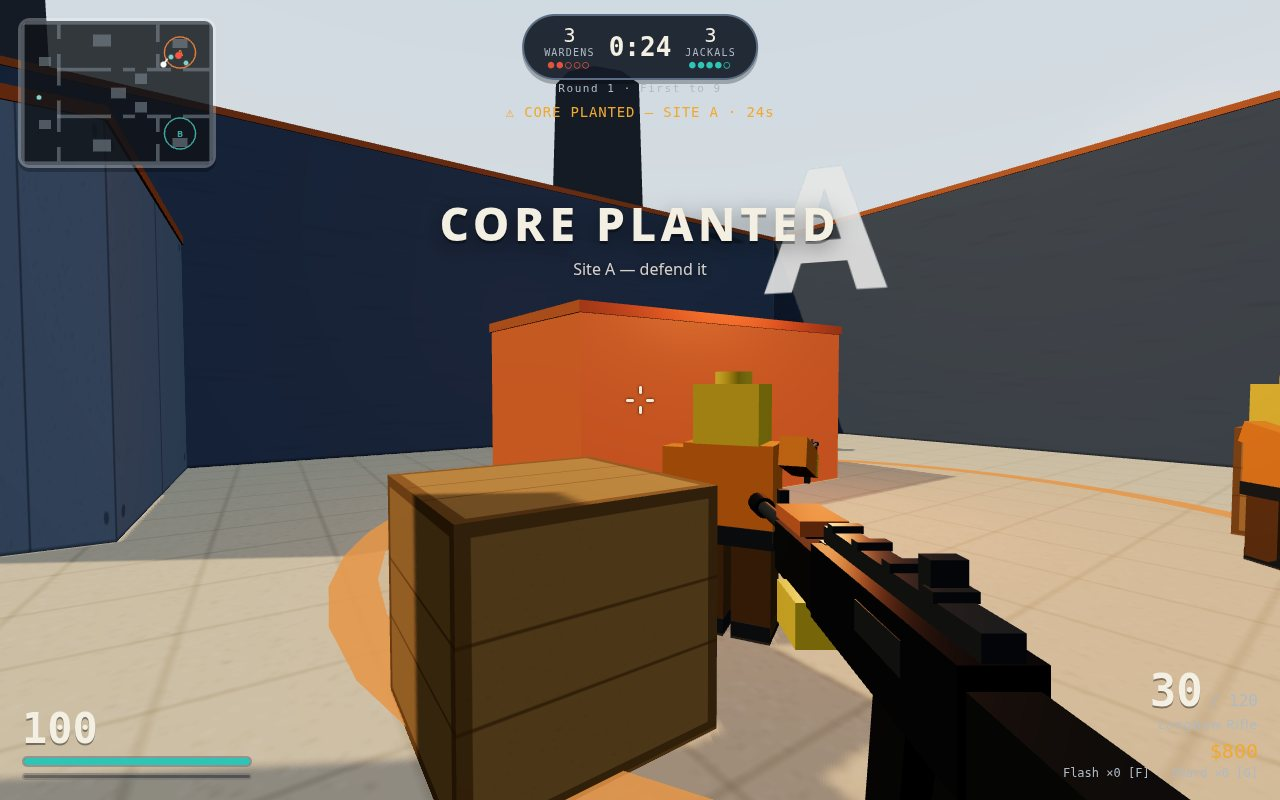
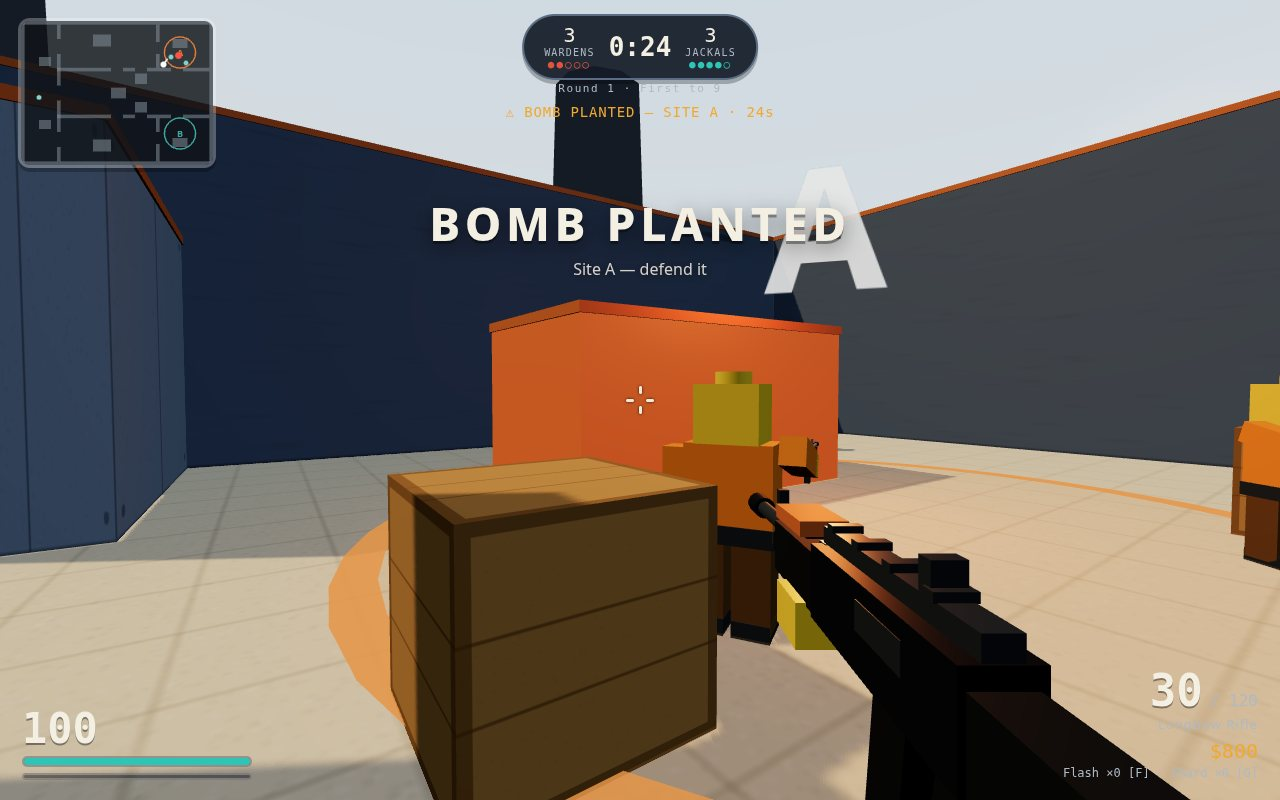
Dedicated PLANT button on touch; the Core is now the Bomb
On a phone the plant action used to hide on the small USE strip button
while the HUD hint still said [hold E] — players could not find it. A
big amber PLANT button now appears only while planting is possible
(player carries the Bomb, standing in a site, live round), pulses to
draw the eye, and its face fills with the plant progress as it is held.
The objective is renamed throughout the visible text: the Bomb is
planted, dropped, defused and detonated; internal identifiers are
unchanged.

Changed region(s): [[0.3125, 0.25, 0.6562, 0.3125], [0.4062, 0.125, 0.4375, 0.1562]]

diff --git a/game/src/main.js b/game/src/main.js
@@ -1,5 +1,5 @@
 // GOBLOK OPENFIRE — a round-based tactical FPS in three.js.
-// Wardens defend two foundry sites; Jackals carry the Core and plant it.
+// Wardens defend two foundry sites; Jackals carry the Bomb and plant it.
 // Money between rounds buys rifles, a sniper, armour and grenades; spread
 // punishes firing on the move, so the game rewards stopping, aiming and
 // trading angles. This module owns the match: the fixed-step simulation,
@@ -308,7 +308,7 @@ function killActor(shooter, target, head) {
     game.bomb.state = 'dropped';
     game.bomb.carrier = null;
     game.bomb.pos.copy(target.pos);
-    game.hud.killfeed('◆ The Core has been dropped');
+    game.hud.killfeed('◆ The Bomb has been dropped');
   }
   if (target.isPlayer) game.hud.banner('YOU ARE DOWN', 'Your team fights on without you', 2200);
 }
@@ -401,7 +401,7 @@ function nextRound() {
     if (a.benched) { a.alive = false; if (a.mesh) a.mesh.visible = false; }
     a.carryCore = false;
   }
-  // The Core goes to a random fielded Jackal — in a duel that is always
+  // The Bomb goes to a random fielded Jackal — in a duel that is always
   // the player; in a strike it lands on a teammate about as often.
   const jackals = game.actors.filter((a) => a.team === TEAM.JACKAL && !a.benched);
   const carrier = jackals[(game.rng() * jackals.length) | 0];
@@ -414,7 +414,7 @@ function nextRound() {
   game.phase = 'buy';
   game.phaseTimeLeft = RULES.buyTime;
   game.hud.showBuy(true);
-  game.hud.banner(`ROUND ${game.round}`, `${TEAM_NAME[TEAM.JACKAL]} attack · plant the Core or eliminate the Wardens`, 2400);
+  game.hud.banner(`ROUND ${game.round}`, `${TEAM_NAME[TEAM.JACKAL]} attack · plant the Bomb or eliminate the Wardens`, 2400);
 }
 
 function endRound(winner, reason) {
@@ -521,7 +521,7 @@ function step(dt) {
     game.phase = 'live';
     game.phaseTimeLeft = RULES.roundTime;
     game.hud.showBuy(false);
-    game.hud.banner('ROUND LIVE', game.bomb.carrier === player ? 'You have the Core — plant it at A or B' : 'Eliminate the Wardens or plant the Core', 1800);
+    game.hud.banner('ROUND LIVE', game.bomb.carrier === player ? 'You have the Bomb — plant it at A or B' : 'Eliminate the Wardens or plant the Bomb', 1800);
   } else if (phase === 'live' && game.bomb.state !== 'planted' && game.phaseTimeLeft <= 0) {
     endRound(TEAM.WARDEN, 'Time expired — the sites hold');
   } else if (phase === 'roundEnd' && game.phaseTimeLeft <= 0) {
@@ -536,7 +536,7 @@ function step(dt) {
     if (!wardensAlive && game.bomb.state !== 'planted') endRound(TEAM.JACKAL, 'Wardens eliminated');
     else if (!jackalsAlive && game.bomb.state !== 'planted') endRound(TEAM.WARDEN, 'Jackals eliminated');
     else if (!jackalsAlive && game.bomb.state === 'planted') {
-      // A planted Core still ticks: the round ends on the bomb, not the bodies.
+      // A planted Bomb still ticks: the round ends on the bomb, not the bodies.
     }
   }
 }
@@ -566,7 +566,7 @@ function stepBomb(dt) {
     if (channeling && site) {
       bomb.plantProgress += dt / RULES.plantTime;
       if (carrier.isPlayer) {
-        game.hud.setChannel('PLANTING THE CORE', bomb.plantProgress);
+        game.hud.setChannel('PLANTING THE BOMB', bomb.plantProgress);
         if ((game.time * 4 | 0) !== (((game.time - dt) * 4) | 0)) sfx.plantBeep((bomb.plantProgress * 4) | 0);
       }
       if (bomb.plantProgress >= 1) {
@@ -577,8 +577,8 @@ function stepBomb(dt) {
         bomb.timeLeft = RULES.bombTime;
         carrier.carryCore = false;
         if (carrier.isPlayer) game.hud.setChannel(null);
-        game.hud.banner('CORE PLANTED', `Site ${site.id} — defend it`, 2000);
-        game.hud.killfeed(`◆ Core planted at site ${site.id}`);
+        game.hud.banner('BOMB PLANTED', `Site ${site.id} — defend it`, 2000);
+        game.hud.killfeed(`◆ Bomb planted at site ${site.id}`);
         sfx.planted();
         for (const a of game.actors) {
           if (a.team === TEAM.JACKAL) a.money = Math.min(RULES.maxMoney, a.money + RULES.rewardPlant);
@@ -615,7 +615,7 @@ function stepBomb(dt) {
       if (defuser.channelReset) { bomb.defuseProgress = 0; defuser.channelReset = false; }
       if (bomb.defuseProgress >= 1) {
         bomb.state = 'defused';
-        endRound(TEAM.WARDEN, 'The Core was defused');
+        endRound(TEAM.WARDEN, 'The Bomb was defused');
         return;
       }
     } else {
@@ -630,7 +630,7 @@ function stepBomb(dt) {
         const d = a.pos.distanceTo(bomb.pos);
         if (d < 10) game.onDamage(null, a, 340 * (1 - d / 10), false);
       }
-      endRound(TEAM.JACKAL, 'The Core detonated');
+      endRound(TEAM.JACKAL, 'The Bomb detonated');
     }
   }
 }
@@ -753,7 +753,7 @@ window.addEventListener('contextmenu', (e) => e.preventDefault());
 // ?shot=start|buy|play|end&seed=N poses a deterministic scene with the real
 // simulation state, so the entry's screenshots are honest renders of the
 // game's own code: menu over the yard, the buy menu at spawn, a mid-round
-// firefight at the crossing, and a planted-Core round end at the Furnace.
+// firefight at the crossing, and a planted-Bomb round end at the Furnace.
 function setupShot(name) {
   game.hud.showMenu(false);
   game.score = [3, 2];
@@ -831,7 +831,7 @@ function setupShot(name) {
     game.bomb.pos.set(20.5, 0, -12.5);
     game.bomb.timeLeft = 24;
     game.score = [3, 3];
-    game.hud.banner('CORE PLANTED', 'Site A — defend it', 60000);
+    game.hud.banner('BOMB PLANTED', 'Site A — defend it', 60000);
   }
   for (const a of game.actors) if (a.mesh && a.alive) { a.mesh.position.copy(a.pos); }
   poseCamera(0.016);
@@ -869,6 +869,15 @@ function frame(now) {
   // The touch layer shows only while a match is running (see index.html).
   document.body.classList.toggle('playing', game.phase !== 'menu' && game.phase !== 'matchEnd');
   if (document.body.dataset.phase !== game.phase) document.body.dataset.phase = game.phase;
+  // The touch PLANT button exists only while planting is actually possible:
+  // live round, the player carries the Bomb, and they are inside a site.
+  const canPlant = game.phase === 'live' && game.bomb && game.bomb.state === 'carried'
+    && game.bomb.carrier === player && game.playerInSite;
+  document.body.classList.toggle('can-plant', canPlant);
+  if (canPlant) {
+    const pb = document.getElementById('t-plant');
+    if (pb) pb.style.setProperty('--p', (game.bomb.plantProgress || 0).toFixed(3));
+  }
   // Live spread estimate for the crosshair.
   const def = currentDef(player.loadout);
   const moveFactor = Math.min(1, Math.hypot(player.vel.x, player.vel.z) / BODY.walkSpeed);

diff --git a/game/index.html b/game/index.html
@@ -169,6 +169,13 @@
   #touchui .tbtn.on { background: rgba(224,150,58,.65); border-color: var(--amber); color: #fff; }
   #touchui .tbtn:active { background: rgba(224,150,58,.5); }
   #t-fire  { right: 20px; bottom: 148px; width: 88px; height: 88px; font-size: 15px; border-color: rgba(255,150,110,.85); background: linear-gradient(180deg, rgba(224,101,58,.75), rgba(178,60,30,.75)); }
+  /* The plant button: big, amber, and only on screen while the player is
+     standing in a site holding the Bomb. Its face fills with the plant
+     progress (the --p custom property, set every frame). */
+  #touchui #t-plant { display: none; right: 116px; bottom: 252px; width: 84px; height: 84px; font-size: 14px; border-color: rgba(245,178,49,.9); color: #ffd97a;
+    background: conic-gradient(rgba(224,150,58,.85) calc(var(--p, 0) * 1turn), rgba(16,20,24,.72) 0); }
+  body.can-plant #touchui #t-plant { display: grid; animation: plantpulse 900ms ease-in-out infinite alternate; }
+  @keyframes plantpulse { from { box-shadow: 0 4px 0 rgba(0,0,0,.3), 0 0 0 0 rgba(245,178,49,0); } to { box-shadow: 0 4px 0 rgba(0,0,0,.3), 0 0 22px 5px rgba(245,178,49,.5); } }
   #t-scope { right: 30px; bottom: 248px; width: 60px; height: 60px; }
   #t-jump  { right: 122px; bottom: 108px; width: 62px; height: 62px; }
   #t-crouch{ right: 124px; bottom: 182px; width: 62px; height: 62px; }
@@ -307,7 +314,7 @@
       </g>
     </svg>
     <h1 id="menu-title">GOBLOK <span>OPENFIRE</span></h1>
-    <p>A round-based tactical shooter in the foundry of Foundry Nine. You lead the <b>Jackals</b>: plant the Core at the Furnace (A) or the Vault (B), or eliminate the Wardens holding them. Money buys rifles, armour and grenades between rounds — and shots only land true when you stop to aim.</p>
+    <p>A round-based tactical shooter in the foundry of Foundry Nine. You lead the <b>Jackals</b>: plant the Bomb at the Furnace (A) or the Vault (B), or eliminate the Wardens holding them. Money buys rifles, armour and grenades between rounds — and shots only land true when you stop to aim.</p>
     <div class="modes" role="group" aria-label="Match mode">
       <button class="mode-card" id="mode-duel" type="button">
         <span class="mode-name">1 <em>VS</em> 1</span>
@@ -326,7 +333,7 @@
       <li class="kb-row"><span><kbd>Mouse</kbd></span> Look · <kbd>Click</kbd> Fire</li>
       <li class="kb-row"><span><kbd>Shift</kbd></span> Walk (quiet) · <kbd>Ctrl</kbd> Crouch</li>
       <li class="kb-row"><span><kbd>R</kbd></span> Reload · <kbd>1</kbd><kbd>2</kbd> Weapons</li>
-      <li class="kb-row"><span><kbd>E</kbd></span> Plant the Core (hold, in a site)</li>
+      <li class="kb-row"><span><kbd>E</kbd></span> Plant the Bomb (hold, in a site)</li>
       <li class="kb-row"><span><kbd>F</kbd></span> Flash · <kbd>G</kbd> Shard grenade</li>
       <li class="kb-row"><span><kbd>B</kbd></span> Buy menu · <kbd>Tab</kbd> Scores</li>
       <li class="kb-row"><span><kbd>RMB</kbd></span> Scope (Verdict sniper)</li>
@@ -346,6 +353,7 @@
 
 <div id="touchui" aria-hidden="true">
   <div id="joy"><div id="joy-knob"></div></div>
+  <button class="tbtn" id="t-plant" type="button">PLANT</button>
   <button class="tbtn" id="t-fire" type="button">FIRE</button>
   <button class="tbtn" id="t-scope" type="button">SCOPE</button>
   <button class="tbtn" id="t-jump" type="button">JUMP</button>

diff --git a/game/src/hud.js b/game/src/hud.js
@@ -144,10 +144,10 @@ export function createHUD(game) {
 
       if (bombState === 'planted') {
         el.bombStatus.hidden = false;
-        setText(el.bombStatus, 'bomb', `⚠ CORE PLANTED — SITE ${game.bomb.site} · ${Math.ceil(game.bomb.timeLeft)}s`);
+        setText(el.bombStatus, 'bomb', `⚠ BOMB PLANTED — SITE ${game.bomb.site} · ${Math.ceil(game.bomb.timeLeft)}s`);
       } else if (bombState === 'carried' && p.carryCore) {
         el.bombStatus.hidden = false;
-        setText(el.bombStatus, 'bomb', '◆ You carry the Core — plant at A or B [hold E]');
+        setText(el.bombStatus, 'bomb', '◆ You carry the Bomb — plant at A or B');
       } else {
         el.bombStatus.hidden = true;
       }
@@ -155,7 +155,7 @@ export function createHUD(game) {
       // Hint line: the one contextual action that matters right now.
       let hint = '';
       if (game.phase === 'buy') hint = 'Buy phase — press B or click to equip. Barriers drop soon.';
-      else if (game.phase === 'live' && p.alive && p.carryCore && game.playerInSite) hint = 'Hold E to plant the Core';
+      else if (game.phase === 'live' && p.alive && p.carryCore && game.playerInSite) hint = 'Hold E to plant the Bomb';
       else if (game.phase === 'live' && !p.alive) hint = 'You are down — watching your team.';
       setText(el.hint, 'hint', hint);
 

diff --git a/game/src/input.js b/game/src/input.js
@@ -220,6 +220,10 @@ function initTouchControls(canvas, onFirstGesture) {
   hold('t-use',
     () => { input.useHeld = true; input.usePressed = true; },
     () => { input.useHeld = false; });
+  // The big contextual PLANT button drives the same channel as USE/E.
+  hold('t-plant',
+    () => { input.useHeld = true; input.usePressed = true; },
+    () => { input.useHeld = false; });
   hold('t-score',
     () => input.keys.add('Tab'),
     () => input.keys.delete('Tab'));

diff --git a/game/src/config.js b/game/src/config.js
@@ -25,7 +25,7 @@ export const PALETTE = {
   lightCool: 0xcfe5ff,
 };
 
-// Teams. The player always leads the Jackals (attack): they carry the Core
+// Teams. The player always leads the Jackals (attack): they carry the Bomb
 // and plant it; the Wardens defend the two sites and defuse.
 export const TEAM = { WARDEN: 0, JACKAL: 1 };
 export const TEAM_NAME = ['Wardens', 'Jackals'];

diff --git a/README.md b/README.md
@@ -3,7 +3,7 @@
 A round-based tactical first-person shooter in the browser, in the style
 Counter-Strike made famous — but its own game throughout: its own map
 (Foundry Nine), teams (Wardens vs Jackals), weapons, objective (plant the
-Core at the Furnace or the Vault) and synthesized sound. Single-player
+Bomb at the Furnace or the Vault) and synthesized sound. Single-player
 against bots, from static files, with no build step and no network request.
 
 The lobby offers two modes: **Duel (1 vs 1)** — you against a single
@@ -42,7 +42,7 @@ the simulation cannot tell the difference.
 | Shift / Ctrl | Walk quietly / crouch |
 | R | Reload |
 | 1 / 2 | Pistol / primary |
-| E (hold) | Plant the Core inside a site |
+| E (hold) | Plant the Bomb inside a site |
 | F / G | Flash Charge / Shard grenade |
 | B | Buy menu · Tab Scoreboard |
 
@@ -71,7 +71,7 @@ sustained fire, so counter-strafing and tapping beat spraying.
   - `audio.js` — every sound synthesized in WebAudio; there are no audio
     files.
   - `main.js` — the match: a fixed-step (120 Hz) simulation kept apart from
-    rendering, round flow, the Core's plant/defuse/detonation, damage and
+    rendering, round flow, the Bomb's plant/defuse/detonation, damage and
     deaths, effects, the camera, and the deterministic `?shot=` screenshot
     modes.
 - `main.ts` — the hand-in program: copies `game/` and `screenshots/` to the
